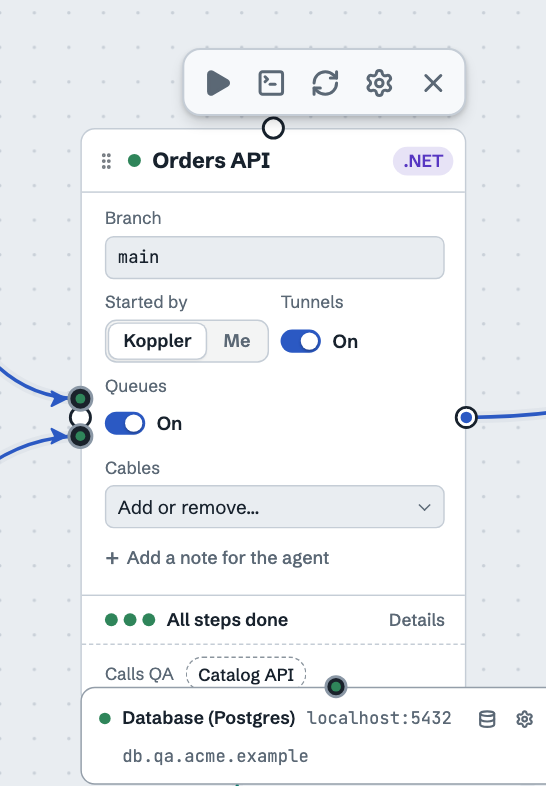
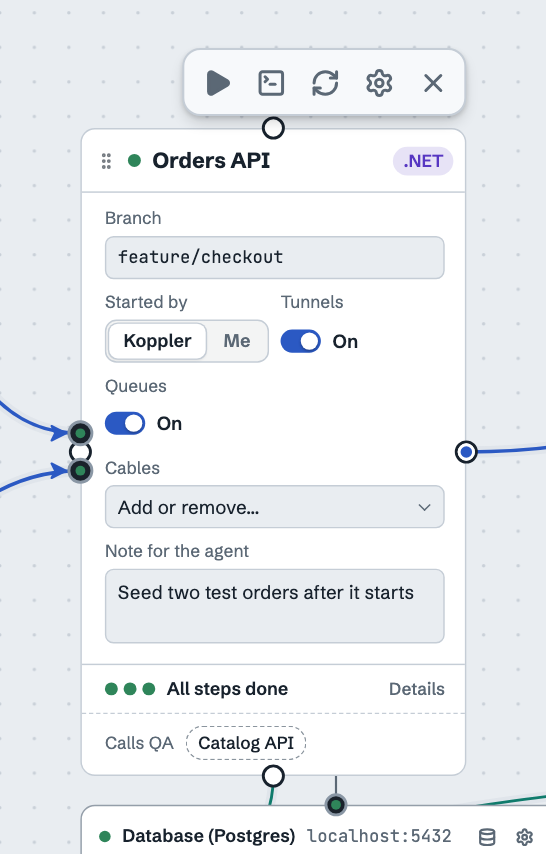
Docs screenshots show a real case: one feature on the same branch across four apps, a local SQS queue, notes for the agent, a connected agent
Fixes #491

diff --git a/app/screenshots/canvas.shots.ts b/app/screenshots/canvas.shots.ts
@@ -40,7 +40,8 @@ const stack: { queues: object; apps: Apps } & typeof STACK = {
     },
   },
 };
-const at = (x: number, y: number) => ({ x, y, run: 'cli', branch: 'main', showQueues: true });
+// One feature, worked on across the apps it touches: each runs its feature branch.
+const at = (x: number, y: number) => ({ x, y, run: 'cli', branch: 'feature/checkout', showQueues: true });
 const board = {
   env: 'qa',
   mode: 'auto',
@@ -49,9 +50,10 @@ const board = {
   nodes: {
     mobile: { ...at(0, 0), platform: 'ios' },
     web: at(0, 480),
-    orders: at(560, 200),
-    payments: at(1160, 200),
+    orders: { ...at(560, 200), note: 'Seed two test orders after it starts' },
+    payments: { ...at(1160, 200), note: 'Use the sandbox merchant account, not the live one' },
   },
+  queues: { 'order-events': 'local' },
   edges: [
     { from: 'mobile', to: 'orders', fromSide: 'right', toSide: 'left' },
     { from: 'web', to: 'orders', fromSide: 'right', toSide: 'left' },
@@ -76,9 +78,15 @@ const running = (page: Page) =>
           payments: { listening: true, steps: done },
         },
         ports: { '5432': true },
-        agent: { state: 'listening', who: { name: 'Checkout flow', agent: 'Claude Code' } },
+        agent,
       },
     }),
+  );
+const agent = { state: 'listening', who: { name: 'Checkout flow', agent: 'Claude Code' } };
+/** Nothing runs yet, and an agent session is connected. */
+const ready = (page: Page) =>
+  page.route('**/data/status.json', route =>
+    route.fulfill({ json: { live: { env: 'qa', nodes: {} }, apps: {}, agent } }),
   );
 /** Each connection check passes, as on a board that works. */
 const healthy = (page: Page) =>
@@ -114,6 +122,8 @@ test('the board, running, in the Live view', async ({ page }, info) => {
 });
 
 test('the review before a Run', async ({ page }, info) => {
+  await ready(page);
+  await page.reload();
   await settle(page);
   await page.getByRole('button', { name: 'Run', exact: true }).click();
   const review = page.getByRole('dialog');
@@ -148,13 +158,7 @@ test("an app's settings", async ({ page }, info) => {
 });
 
 test.describe('zoomed out', () => {
-  // ponytail: no tunnel or queue cards here until, zoomed out, they stop sliding under their app; back with that fix.
-  const { prereqs: _tunnel, publishes: _sends, ...orders } = stack.apps['orders'] ?? {};
-  const { reads: _reads, ...payments } = stack.apps['payments'] ?? {};
-  test.use({
-    stack: { ...stack, queues: {}, apps: { ...stack.apps, orders, payments } },
-    board: { ...board, zoom: 0.5, pan: { x: 120, y: 120 } },
-  });
+  test.use({ board: { ...board, zoom: 0.5, pan: { x: 120, y: 120 } } });
   test("a picked card's choices beside the board", async ({ page }, info) => {
     await running(page);
     await healthy(page);

diff --git a/docs/canvas.md b/docs/canvas.md
@@ -19,7 +19,7 @@ A board file can also be opened, dropped on the page or linked from GitHub.
 
 <picture>
   <source media="(prefers-color-scheme: dark)" srcset="images/board-dark.png">
-  <img alt="A board: a mobile app and a web shop cabled to a local Orders API, which calls a local Payments API; Orders API has a database tunnel and a queue, Payments API calls an outside payment provider" src="images/board-light.png">
+  <img alt="One feature, Checkout, worked on across four apps: the mobile app and web shop cabled to a local Orders API, which calls a local Payments API; each runs its feature/checkout branch, Orders API has a database tunnel and a local SQS queue, two apps carry a note for the agent, and everything runs" src="images/board-light.png">
 </picture>
 
 Each app is a card with:
@@ -97,7 +97,7 @@ Nothing starts, stops or restarts until you confirm it there; then Koppler runs 
 
 <picture>
   <source media="(prefers-color-scheme: dark)" srcset="images/review-dark.png">
-  <img alt="The review before a Run on QA: the apps that start with their branch and who starts them, the apps that stay deployed, and the tunnel that opens" src="images/review-light.png" width="480">
+  <img alt="The review before a Run on QA: the four apps that start on feature/checkout with their notes for the agent, what keeps calling deployed QA, and the tunnel that opens" src="images/review-light.png" width="480">
 </picture>
 
 With the agent add-on, Run's menu has two more ways: **Run with a note for the agent…** passes an instruction for the whole run, and **Get a checklist instead** asks the agent for a per-app checklist instead of changing anything.

diff --git a/README.md b/README.md
@@ -11,7 +11,7 @@ It helps most when you work on one app (a mobile app, a front end, one API) and 
 
 <picture>
   <source media="(prefers-color-scheme: dark)" srcset="docs/images/board-dark.png">
-  <img alt="The Koppler canvas: a mobile app and a web shop cabled to a local Orders API, which calls a local Payments API, with its database tunnel and queue; every app running" src="docs/images/board-light.png">
+  <img alt="One feature, Checkout, worked on across four apps: the mobile app and web shop cabled to a local Orders API, which calls a local Payments API; each runs its feature/checkout branch, Orders API has a database tunnel and a local SQS queue, two apps carry a note for the agent, and everything runs" src="docs/images/board-light.png">
 </picture>
 
 ## How it works
@@ -26,7 +26,7 @@ It helps most when you work on one app (a mobile app, a front end, one API) and 
 
 <picture>
   <source media="(prefers-color-scheme: dark)" srcset="docs/images/review-dark.png">
-  <img alt="The review before a Run: the apps that start, with their branches, what keeps calling the deployed QA environment, and the tunnel that opens" src="docs/images/review-light.png" width="520">
+  <img alt="The review before a Run on QA: the four apps that start on feature/checkout with their notes for the agent, what keeps calling deployed QA, and the tunnel that opens" src="docs/images/review-light.png" width="520">
 </picture>
 
 ## Install

diff --git a/docs/getting-started.md b/docs/getting-started.md
@@ -48,7 +48,7 @@ The agent chip in the toolbar shows whether an agent session is connected; you o
 
 <picture>
   <source media="(prefers-color-scheme: dark)" srcset="images/board-dark.png">
-  <img alt="The canvas with a board of five apps, all running" src="images/board-light.png">
+  <img alt="One feature, Checkout, worked on across four apps: the mobile app and web shop cabled to a local Orders API, which calls a local Payments API; each runs its feature/checkout branch, Orders API has a database tunnel and a local SQS queue, two apps carry a note for the agent, and everything runs" src="images/board-light.png">
 </picture>
 
 ## 5. Your first run
